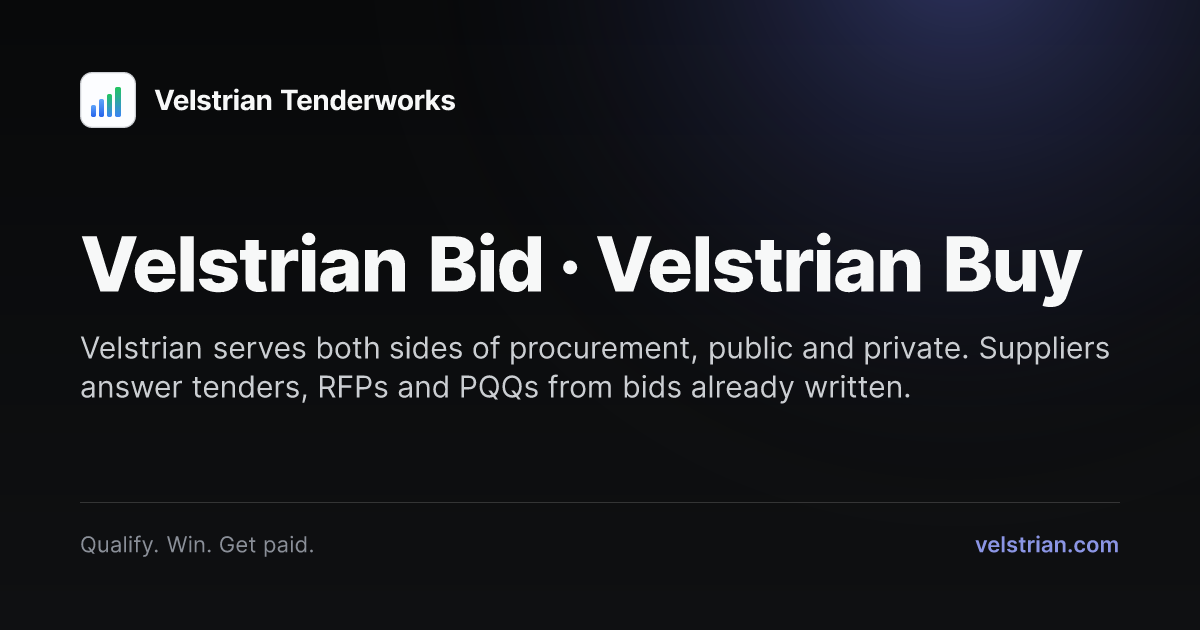
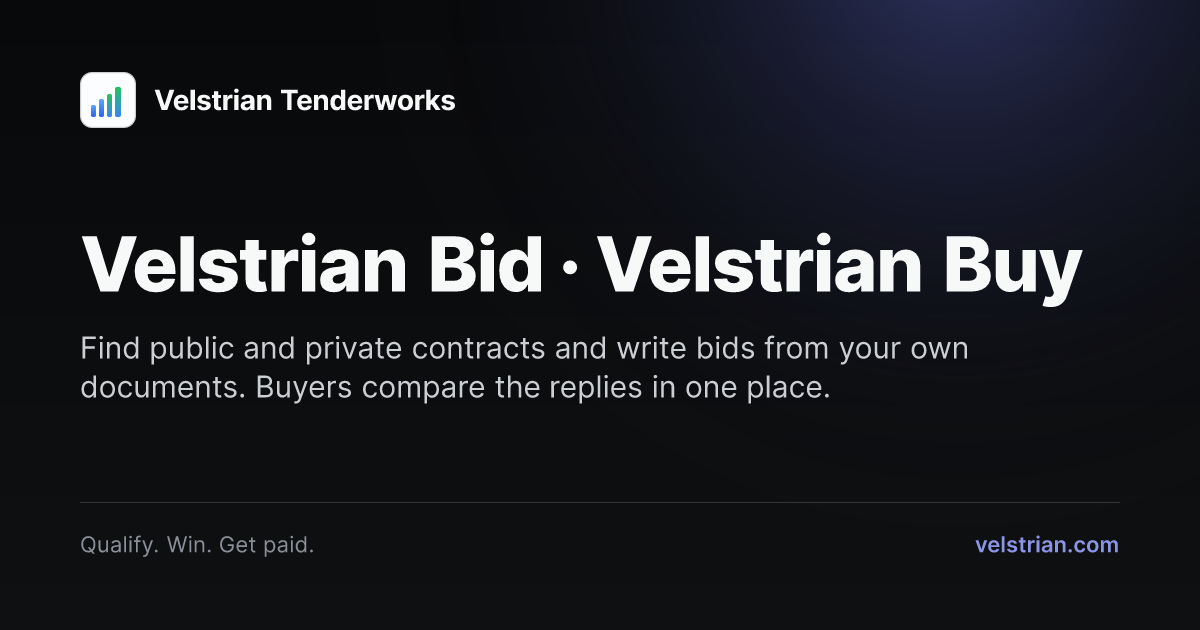
fix(web): R285-WEB-REVIEW-2026-10-22 item 4 plain words in the title, description, footer line, nav and social card
The home title read as a keyword list and the description, footer line on every route, Organization node and default social card said tenders, RFPs, PQQs and SQs. Now plain words for small firms writing their own bids, public and private, naming Velstrian Bid and Velstrian Buy, written once in data/site.ts: HOME_DESCRIPTION (150 chars), SITE_SUMMARY (footer and Organization) and OG_CARD_LINE. Title 'Velstrian | Simple bid software for suppliers and buyers' (56 chars). The nav product lines lost RFPs and RFIs too. generate-og-images.js reads OG_CARD_LINE for the default card instead of the built home description, so the card no longer waits on a build, and Assets/og-image.png is regenerated from it (opened and checked). Dev home: 0 of RFPs, PQQs, RFIs. Gates: check-english, check-facts, check-brand-names, check-site-facts exit 0.

Changed region(s): [[0.0617, 0.5127, 0.925, 0.6333]]

diff --git a/astro/src/data/site.ts b/astro/src/data/site.ts
@@ -24,7 +24,28 @@ import {
   COMPANY_NUMBER,
   SITE_ORIGIN,
   STATUS_URL,
+  PRODUCT_NAME_BID,
+  PRODUCT_NAME_BUY,
 } from '../lib/brand-names';
+
+/*
+ * WHAT VELSTRIAN IS, IN PLAIN WORDS (R285-WEB-REVIEW-2026-10-22 item 4, RULE
+ * 0-U). The home description, the footer line on every route, the Organization
+ * node and the default social card all said "tenders, RFPs, PQQs and SQs", four
+ * terms a small firm writing its first bid does not know. They now say what the
+ * products do, for whom, public and private, naming Velstrian Bid and Velstrian
+ * Buy. Written once here so the four surfaces cannot drift apart again (the
+ * alignment A-50 and A-112 kept by hand).
+ */
+/** The home page meta description, at most 155 characters. */
+export const HOME_DESCRIPTION = `${PRODUCT_NAME_BID} helps small firms find public and private contracts and write bids from their own documents. ${PRODUCT_NAME_BUY} helps buyers compare replies.`;
+
+/** The longer version: the footer line on every route and the Organization node. */
+export const SITE_SUMMARY = `${PLATFORM_SHORT_NAME} makes bidding simple for small and mid size firms, for public and private work. ${PRODUCT_NAME_BID} finds contracts that suit you and drafts your answers from your own documents. ${PRODUCT_NAME_BUY} helps buyers set out what they need and compare the replies.`;
+
+/** The line under the product names on the default social card
+ *  (scripts/generate-og-images.js reads it from this file), at most 140 characters. */
+export const OG_CARD_LINE = `Find public and private contracts and write bids from your own documents. Buyers compare the replies in one place.`;
 
 /**
  * THE SOCIAL CARD VERSION, written once (R285-WEB-REVIEW-2026-10-22 item 5).
@@ -71,8 +92,7 @@ export const SITE = {
     legalName: LEGAL_ENTITY_NAME,
     url: `${SITE_ORIGIN}/`,
     logo: ogImageUrl('/Assets/og-image.png'),
-    description:
-      'Velstrian serves both sides of a procurement, public sector and private. Suppliers answer tenders, RFPs, PQQs and SQs from bids already written. Buyers publish requirements and find the evidence.',
+    description: SITE_SUMMARY,
     email: HELLO_EMAIL,
     identifier: { '@type': 'PropertyValue', name: 'Companies House', value: COMPANY_NUMBER },
     address: { '@type': 'PostalAddress', addressCountry: 'GB' },

diff --git a/scripts/generate-og-images.js b/scripts/generate-og-images.js
@@ -82,6 +82,14 @@ function brandName(name) {
 }
 const PLATFORM_NAME = brandName("PLATFORM_NAME");
 const PRODUCT_NAME_BID = brandName("PRODUCT_NAME_BID");
+// The default card's line, from astro/src/data/site.ts. A template literal there, so
+// any ${NAME} in it is filled from brand-names.ts here.
+const OG_CARD_LINE = (() => {
+  const site = fs.readFileSync(path.join(__dirname, "..", "astro", "src", "data", "site.ts"), "utf8");
+  const m = site.match(/export const OG_CARD_LINE = `([^`]*)`;/);
+  if (!m) throw new Error("OG_CARD_LINE not found in astro/src/data/site.ts");
+  return m[1].replace(/\$\{([A-Z_]+)\}/g, (_, name) => brandName(name));
+})();
 const PRODUCT_NAME_BUY = brandName("PRODUCT_NAME_BUY");
 const SITE_CANONICAL_HOST = brandName("SITE_CANONICAL_HOST");
 
@@ -1241,12 +1249,10 @@ async function main() {
       const svg = await satori(
         buildOgTree({
           title: `${PRODUCT_NAME_BID} · ${PRODUCT_NAME_BUY}`,
-          // The home page's own description, read from the build like every other card.
-          subtitle: clip(
-            withoutPrices(extractMetaDescription(fs.readFileSync(path.join(repoRoot, DIST_RELATIVE, "index.html"), "utf8")) ?? ""),
-            140,
-            "",
-          ),
+          // [R285-WEB-REVIEW-2026-10-22 item 4] OG_CARD_LINE in astro/src/data/site.ts, the plain
+          // words line written for this card. It WAS the home meta description read from the
+          // build, which said "tenders, RFPs and PQQs" and was too long for the card.
+          subtitle: clip(withoutPrices(OG_CARD_LINE), 140, ""),
           product: null,
         }),
         { width: 1200, height: 630, fonts },

diff --git a/astro/src/data/footer.ts b/astro/src/data/footer.ts
@@ -22,6 +22,7 @@
  */
 
 import { PRODUCT_NAME_BID, PRODUCT_NAME_BUY, STATUS_URL } from '../lib/brand-names';
+import { SITE_SUMMARY } from './site';
 import { TRUST_BADGES } from './site-facts';
 
 export interface FooterLink {
@@ -178,8 +179,9 @@ export const FOOTER = {
      * page of a site whose homepage had stopped saying it. All three move
      * together or the alignment A-50 created is not worth having.
      */
-    tagline:
-      'Velstrian serves both sides of a procurement, public sector and private. Suppliers answer tenders, RFPs, PQQs and SQs from bids already written. Buyers publish requirements and find the evidence.',
+    /* 2026-10-22, R285-WEB-REVIEW-2026-10-22 item 4: plain words, read from
+       SITE_SUMMARY in site.ts with the Organization node, so the two stay one. */
+    tagline: SITE_SUMMARY,
     /**
      * Static initial state. On the legacy site this is refined by a live
      * status-monitor fetch in scripts.js. That polling is a separate,

diff --git a/astro/src/data/nav.ts b/astro/src/data/nav.ts
@@ -106,14 +106,14 @@ const PRODUCTS: NavMenu = {
         {
           label: PRODUCT_NAME_BID,
           href: '/bid/',
-          description: 'Respond to tenders, RFPs, RFIs and questionnaires',
+          description: 'Find contracts and answer them from your own documents',
           accent: 'mark',
           icon: 'dot',
         },
         {
           label: PRODUCT_NAME_BUY,
           href: '/buy/',
-          description: 'Read the responses you receive, against the requirements you published',
+          description: 'Set out what you need and compare the replies you get',
           accent: 'teal',
           icon: 'dot',
         },
